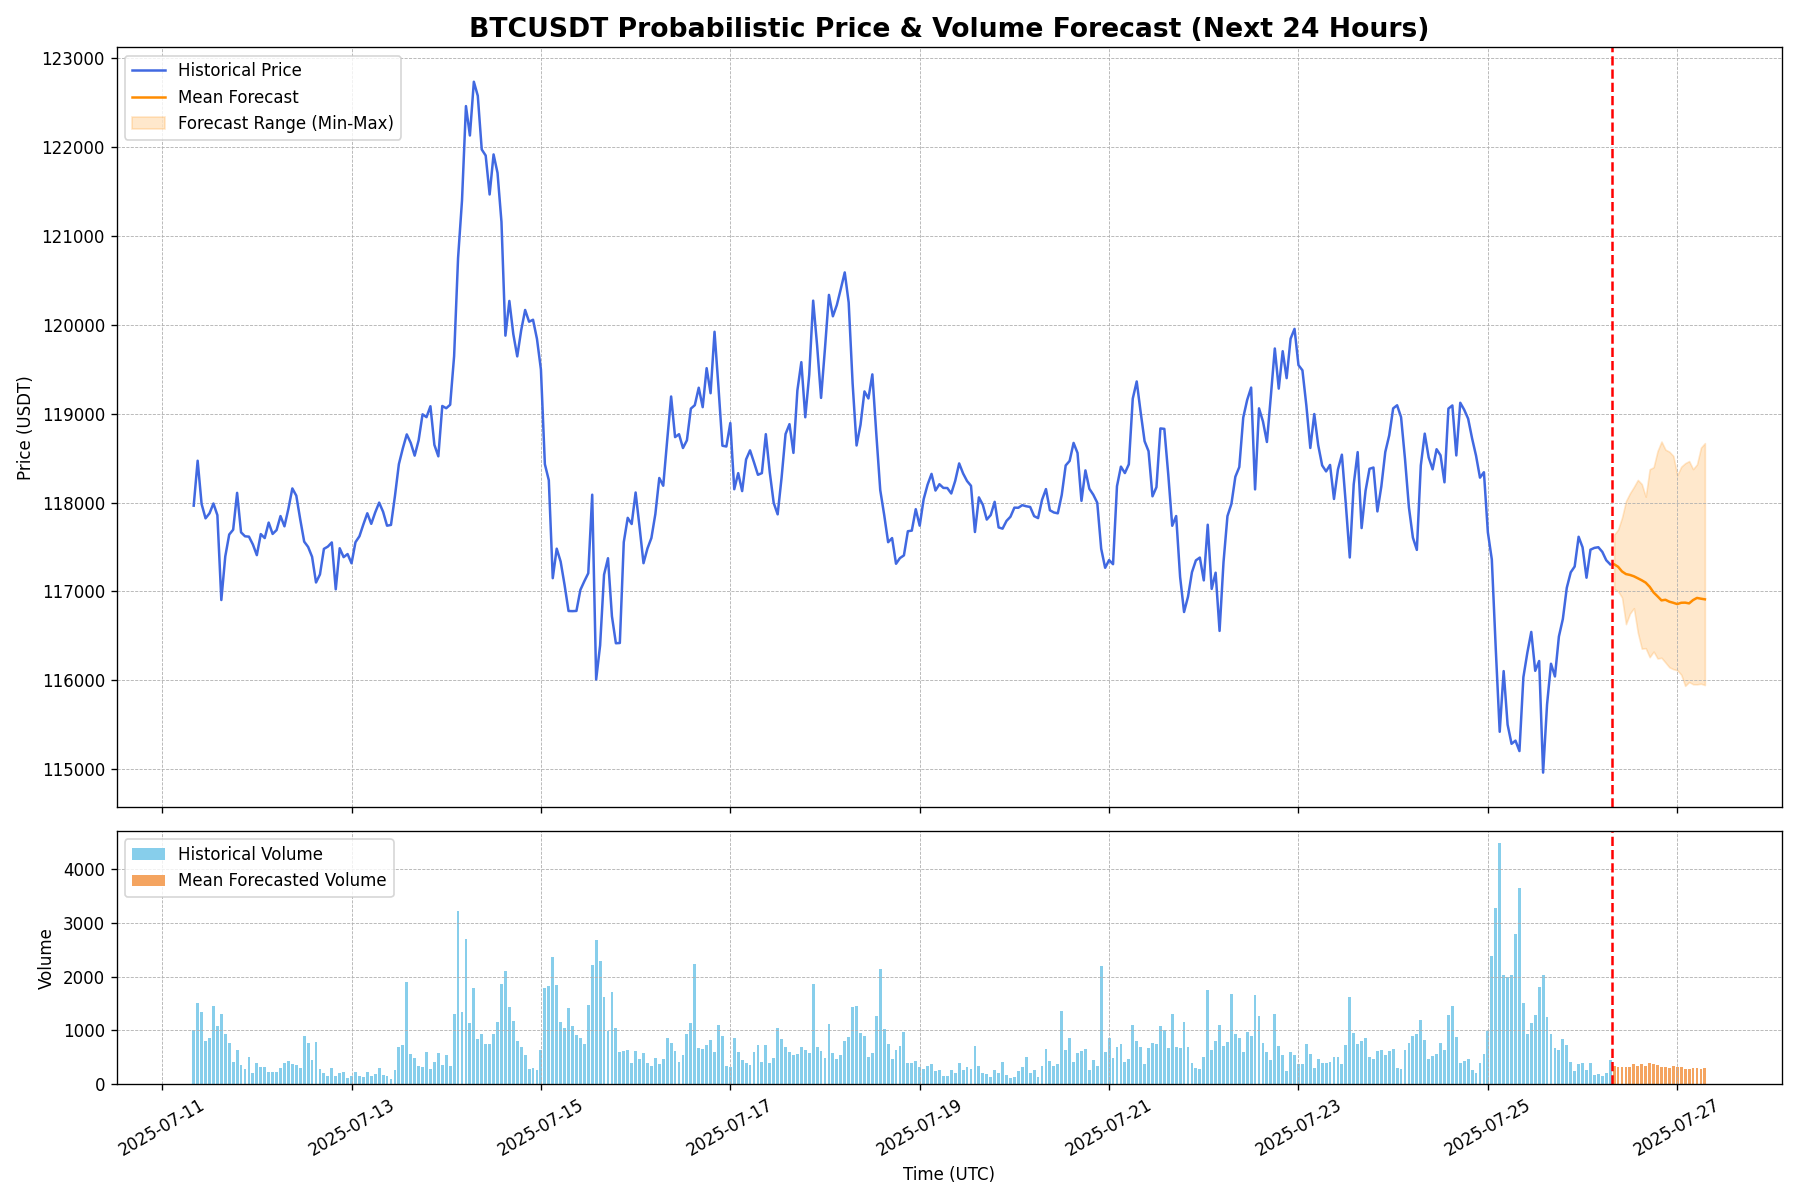
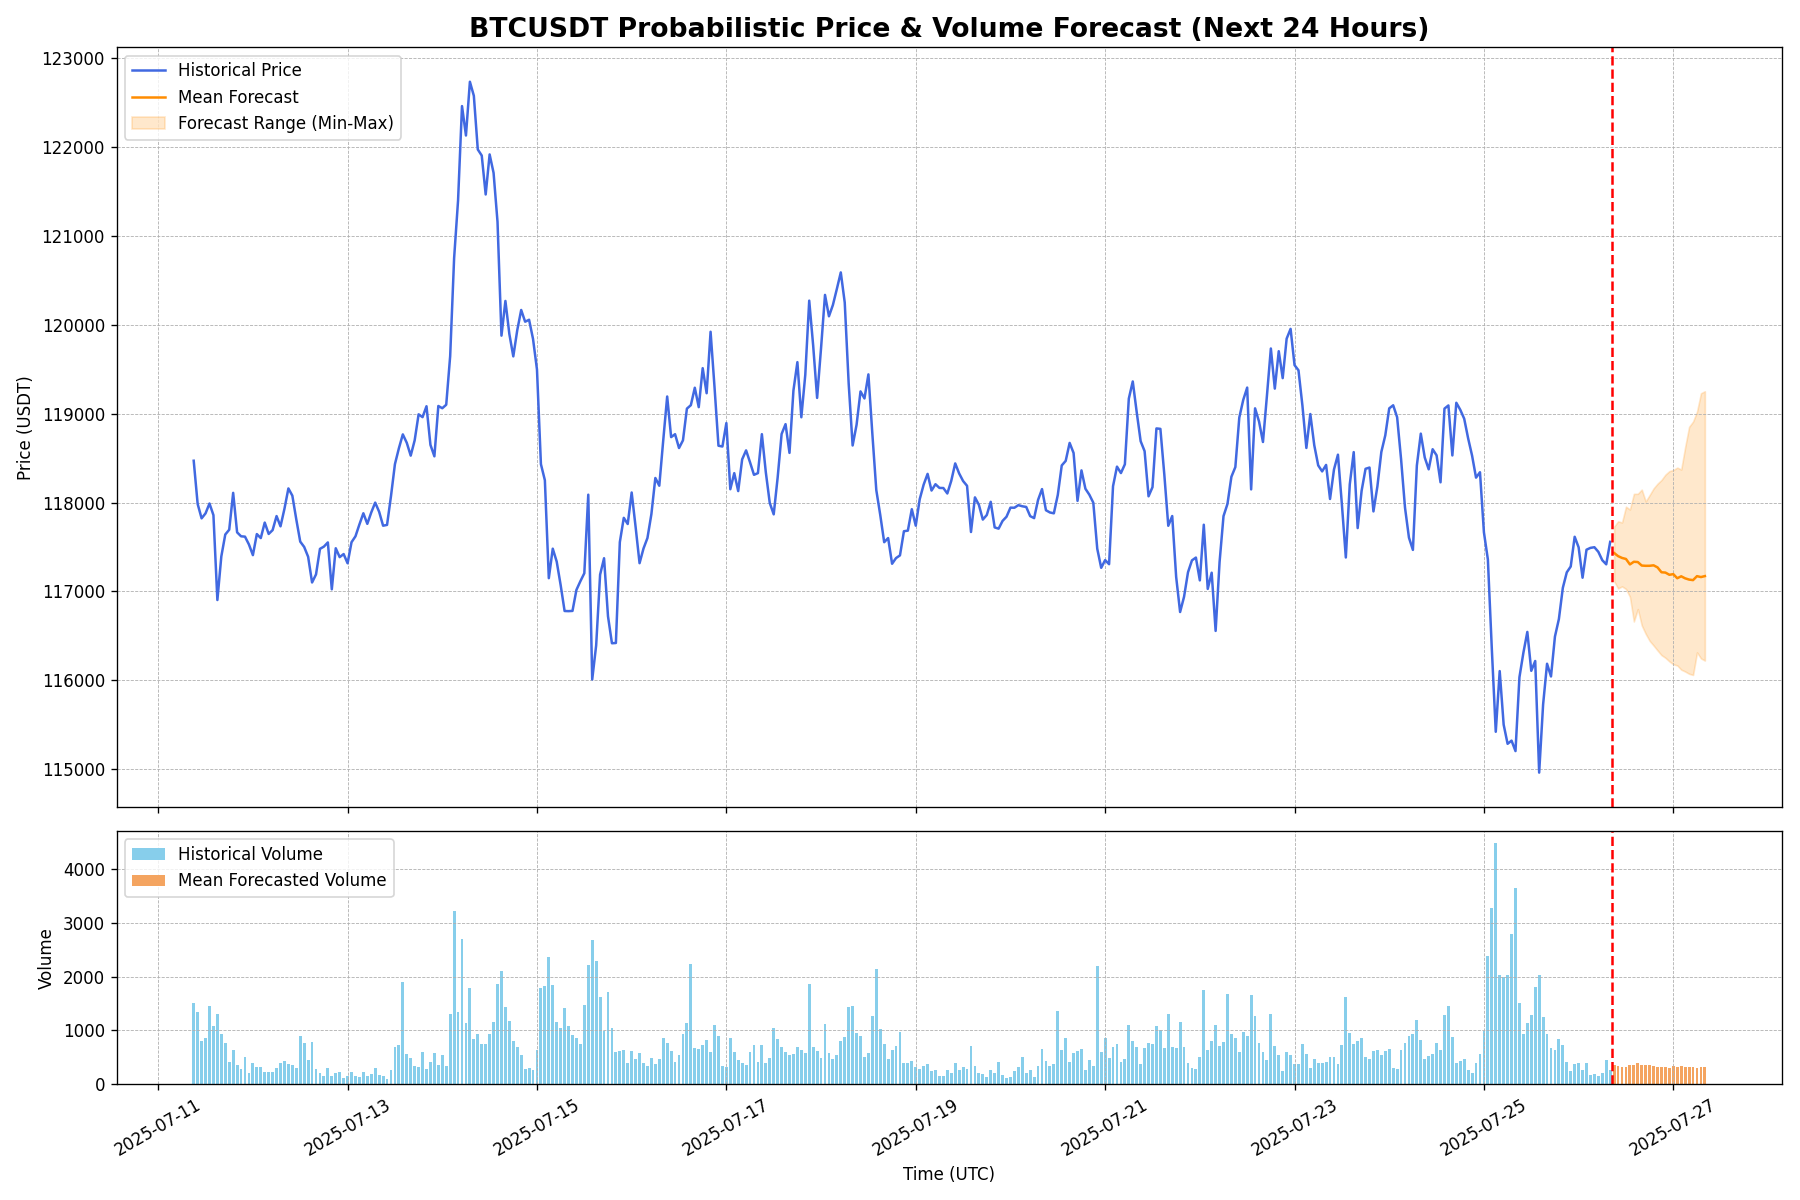
Auto-update forecast for 2025-07-26 09:05 UTC

diff --git a/index.html b/index.html
@@ -22,14 +22,14 @@
         <section id="live-dashboard">
             <h2>Live BTC/USDT Forecast Dashboard</h2>
             <div class="metadata">
-                <span>Last Updated (UTC): <strong id="update-time">2025-07-26 08:06:06</strong></span>
+                <span>Last Updated (UTC): <strong id="update-time">2025-07-26 09:05:59</strong></span>
                 <span>Data Source: Binance | Interval: 1-Hour</span>
             </div>
 
             <div class="metrics-container">
                 <div class="metric-card">
                     <h3>Upside Probability (Next 24h)</h3>
-                    <p class="metric-value" id="upside-prob">16.7%</p>
+                    <p class="metric-value" id="upside-prob">10.0%</p>
                     <div class="metric-desc">The model's confidence that the price in 24 hours will be higher than the last known price.</div>
                 </div>
                 <div class="metric-card">
